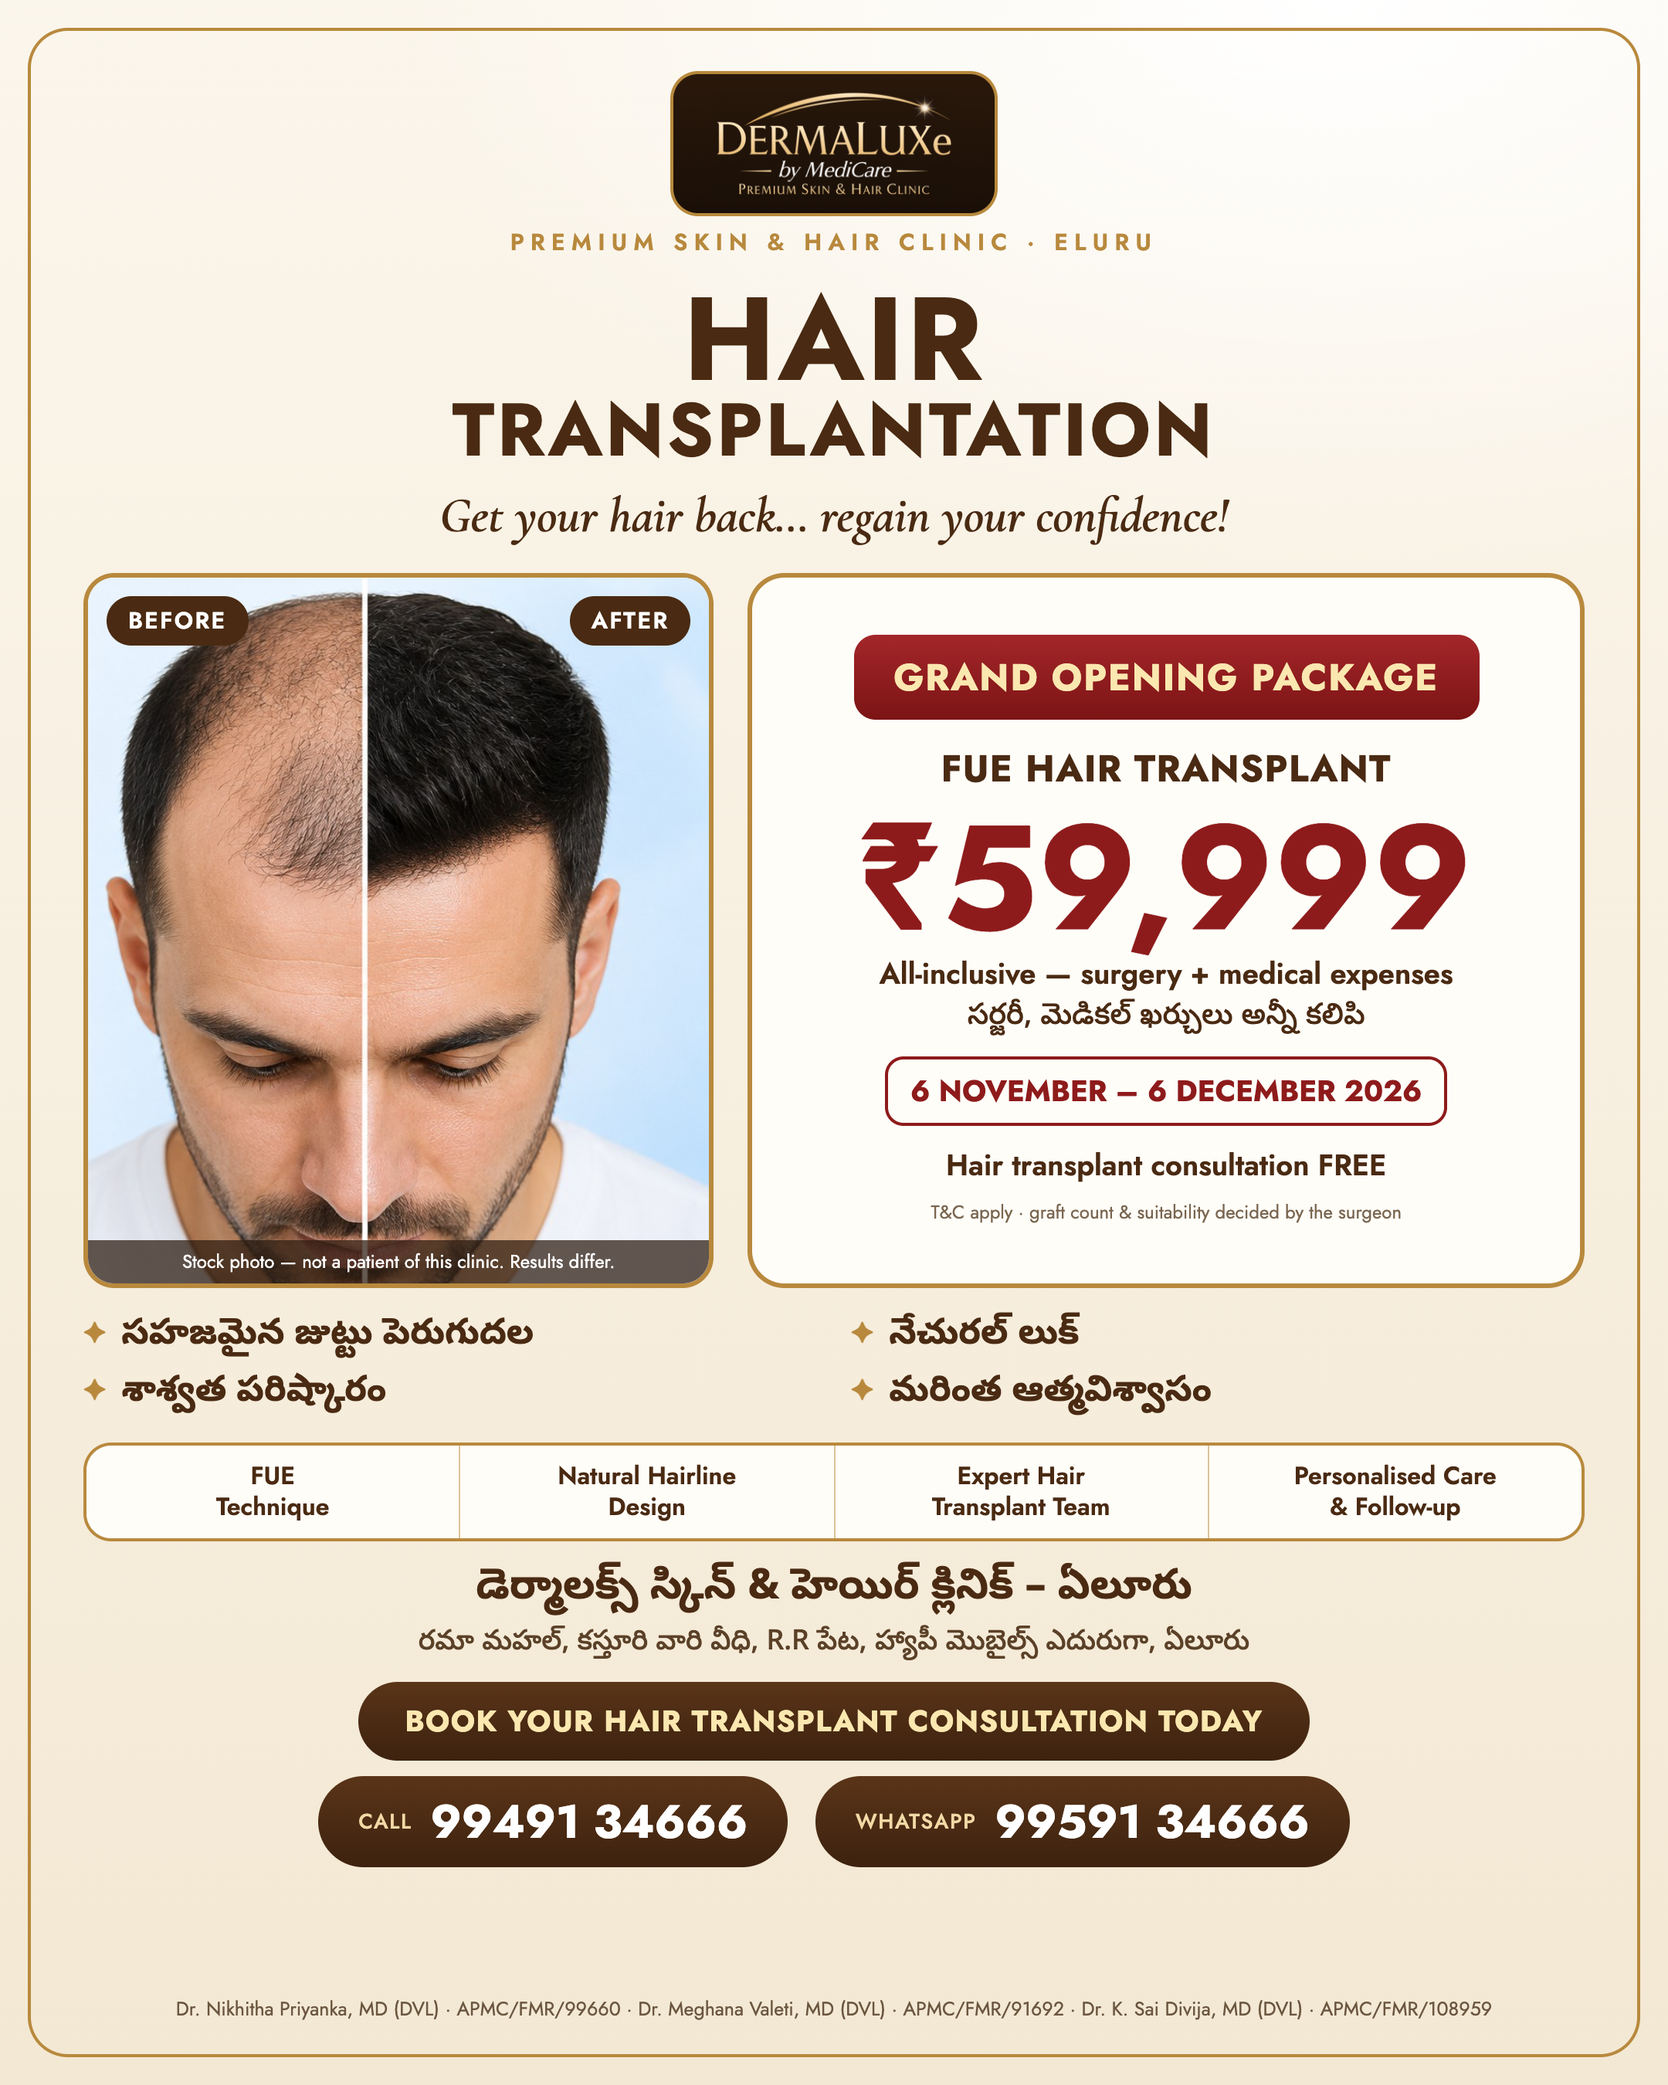
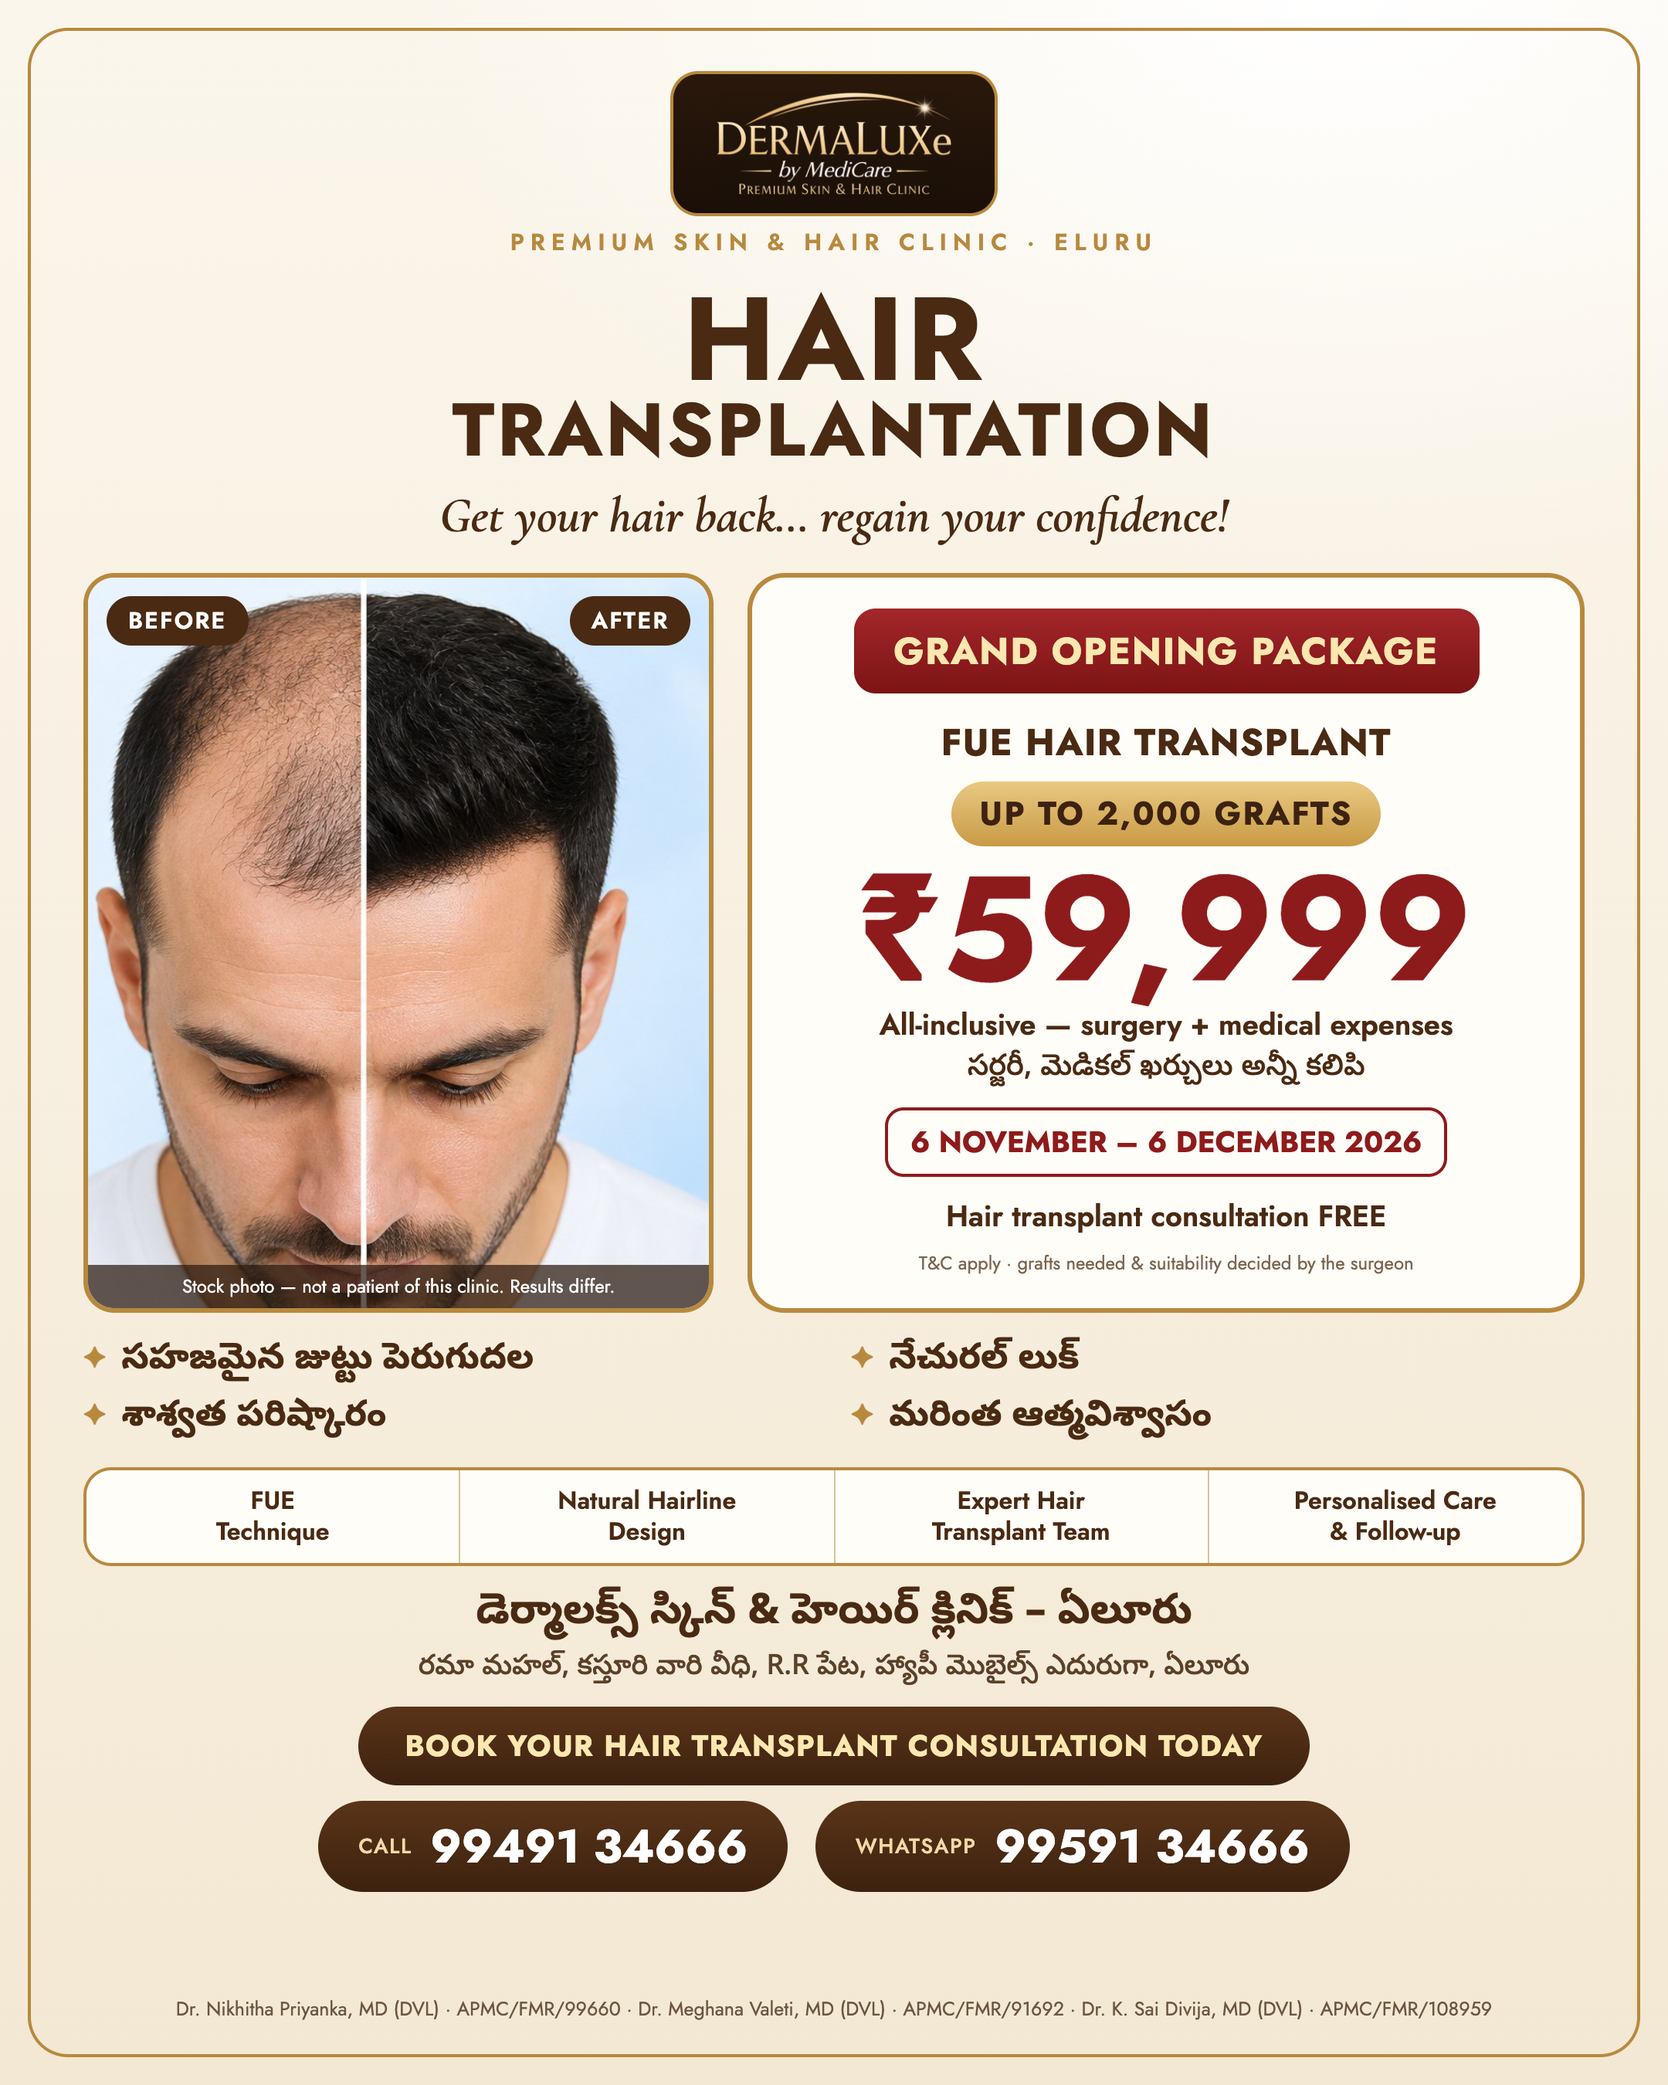
The hair transplant package covers up to 2,000 grafts
The owner gave the number on 7 Nov. It is on the package page, the three
banners, both posters and in the agent's brief, which says more than 2,000
grafts costs extra and is told before booking, and never to promise that
2,000 will be enough for anyone.

Changed region(s): [[0.031, 0.28, 0.9616, 0.9333]]

diff --git a/hair-transplant-offer.html b/hair-transplant-offer.html
@@ -4,7 +4,7 @@
   <meta charset="UTF-8" />
   <meta name="viewport" content="width=device-width, initial-scale=1.0" />
   <title>Hair Transplant Package ₹59,999 in Eluru | 6 Nov – 6 Dec 2026 | DermaLuxe by Medicare</title>
-  <meta name="description" content="FUE hair transplant in Eluru — all-inclusive package ₹59,999 for procedures booked 6 November to 6 December 2026. DermaLuxe by Medicare, R.R. Peta, Eluru." />
+  <meta name="description" content="FUE hair transplant in Eluru — up to 2,000 grafts, all-inclusive package ₹59,999 for procedures booked 6 November to 6 December 2026. DermaLuxe by Medicare, R.R. Peta, Eluru." />
   <meta name="robots" content="index, follow, max-image-preview:large" />
   <link rel="canonical" href="https://www.dermaluxe.ai/hair-transplant-offer.html" />
   <meta property="og:title" content="Hair Transplant Package ₹59,999 — DermaLuxe Eluru" />
@@ -67,7 +67,7 @@
         <div class="htp-price">
           <div class="lbl">Grand opening package</div>
           <div class="amt">₹59,999</div>
-          <div class="inc">All-inclusive — FUE surgery and medical expenses<br /><span class="te tsub"><span lang="te">సర్జరీ, మెడికల్ ఖర్చులు అన్నీ కలిపి</span></span></div>
+          <div class="inc">Up to <b>2,000 grafts</b> · all-inclusive — FUE surgery and medical expenses<br /><span class="te tsub"><span lang="te">2,000 గ్రాఫ్ట్ల వరకు · సర్జరీ, మెడికల్ ఖర్చులు అన్నీ కలిపి</span></span></div>
           <div class="when">6 November – 6 December 2026 only</div>
           <p class="meta" style="margin-top:.8rem" data-owner="ht-offer-2026-11">Hair transplant consultation is free during these dates. <span class="te"><span lang="te">ఈ తేదీల్లో హెయిర్ ట్రాన్స్ప్లాంట్ కన్సల్టేషన్ ఉచితం</span>.</span></p>
         </div>
@@ -100,7 +100,7 @@
     <ul class="ticklist">
       <li>FUE hair transplant surgery by our hair transplant team, under local anaesthesia</li>
       <li>Medical expenses of the procedure</li>
-      <li>Graft count for the package and your suitability are confirmed by the surgeon at the scalp assessment</li>
+      <li>Up to 2,000 grafts — how many you need, and whether a transplant suits you, are decided by the surgeon at the scalp assessment</li>
       <li>Personalised care and follow-up after the procedure</li>
     </ul>
     <p>Mild soreness and swelling for a few days afterwards is normal. The surgeon explains the plan, the graft count and the aftercare before anything is booked.</p>
@@ -111,7 +111,7 @@
       <span class="te tsub"><span lang="te">రమా మహల్, కస్తూరి వారి వీధి, R.R పేట, హ్యాపీ మొబైల్స్ ఎదురుగా, ఏలూరు</span>.</span></p>
     <p><a href="hair-transplant-eluru.html" style="color:var(--gold-2)">About hair transplant at DermaLuxe →</a> · <a href="hair-transplant-eluru-telugu.html" style="color:var(--gold-2)"><span lang="te">తెలుగులో చదవండి →</span></a></p>
 
-    <p class="htp-terms">T&amp;C apply. The package price is for FUE procedures booked between 6 November and 6 December 2026. The graft count included and whether a transplant suits you are decided by the surgeon after examining your scalp; a larger area may need more grafts at an added cost, told to you before booking. Consultation for other treatments is ₹300.</p>
+    <p class="htp-terms">T&amp;C apply. The package price is for FUE procedures booked between 6 November and 6 December 2026. The package includes up to 2,000 grafts. How many you need, and whether a transplant suits you, are decided by the surgeon after examining your scalp; more than 2,000 grafts is at an added cost, told to you before booking. Consultation for other treatments is ₹300.</p>
   </main>
 
   <footer class="seo-foot">

diff --git a/print/make-ht-offer.js b/print/make-ht-offer.js
@@ -47,6 +47,7 @@ const page = (W, H, tall) => `<!doctype html><html><head><meta charset="utf-8">
   .offer { flex:1 1 0; min-width:0; box-sizing:border-box; border:3px solid var(--gold); border-radius:24px; background:#fffdf8; display:flex; flex-direction:column; align-items:center; justify-content:center; padding:20px 14px; text-align:center; }
   .ribbon { background:linear-gradient(180deg,#a3262a,#7c1414); color:#fbe7b0; font-weight:700; font-size:${tall ? 30 : 24}px; letter-spacing:.04em; padding:10px 26px; border-radius:14px; }
   .pkg { margin-top:14px; font-weight:700; font-size:${tall ? 30 : 24}px; color:var(--brown); letter-spacing:.03em; }
+  .grafts { margin-top:8px; background:linear-gradient(180deg,#e9c983,#c99a45); color:#3d220f; font-weight:700; font-size:${tall ? 26 : 21}px; letter-spacing:.06em; padding:6px 18px; border-radius:100px; }
   .amt { font-family:Jost; font-weight:700; font-size:${tall ? 116 : 96}px; line-height:1; color:var(--maroon); margin-top:6px; }
   .inc { font-size:${tall ? 23 : 19}px; font-weight:600; color:var(--brown); }
   .inc-te { font-family:"Noto Sans Telugu"; font-size:${tall ? 24 : 19}px; color:var(--brown); margin-top:2px; }
@@ -76,13 +77,13 @@ const page = (W, H, tall) => `<!doctype html><html><head><meta charset="utf-8">
     <div class="photo"><img src="${photo}" alt=""><span class="lb l">BEFORE</span><span class="lb r">AFTER</span><div class="note">Stock photo — not a patient of this clinic. Results differ.</div></div>
     <div class="offer">
       <div class="ribbon">GRAND OPENING PACKAGE</div>
-      <div class="pkg">FUE HAIR TRANSPLANT</div>
+      <div class="pkg">FUE HAIR TRANSPLANT</div><div class="grafts">UP TO 2,000 GRAFTS</div>
       <div class="amt">₹59,999</div>
       <div class="inc">All-inclusive — surgery + medical expenses</div>
       <div class="inc-te">సర్జరీ, మెడికల్ ఖర్చులు అన్నీ కలిపి</div>
       <div class="dates">6 NOVEMBER – 6 DECEMBER 2026</div>
       <div class="free" data-owner="ht-offer-2026-11">Hair transplant consultation FREE</div>
-      <div class="tc">T&amp;C apply · graft count &amp; suitability decided by the surgeon</div>
+      <div class="tc">T&amp;C apply · grafts needed &amp; suitability decided by the surgeon</div>
     </div>
   </div>
   <div class="benefits"><div>సహజమైన జుట్టు పెరుగుదల</div><div>నేచురల్ లుక్</div><div>శాశ్వత పరిష్కారం</div><div>మరింత ఆత్మవిశ్వాసం</div></div>

diff --git a/api/_facts.js b/api/_facts.js
@@ -47,9 +47,9 @@ GRAND OPENING (people will ask about the invitation, the video and the posters)
 const HT_ENDS = Date.parse("2026-12-07T00:00:00+05:30");
 const HT_OFFER = `
 HAIR TRANSPLANT PACKAGE — 6 November to 6 December 2026 (owner)
-- FUE hair transplant package: *₹59,999 all-inclusive* — FUE surgery and the medical expenses together. This is the one treatment price you MAY say; say it as exactly that. Valid for procedures booked 6 Nov – 6 Dec 2026.
+- FUE hair transplant package: *₹59,999 all-inclusive, up to 2,000 grafts* — FUE surgery and the medical expenses together. This is the one treatment price you MAY say; say it as exactly that. Valid for procedures booked 6 Nov – 6 Dec 2026.
 - NEVER call the hair transplant or the surgery "free" — not "surgery free", not "free hair transplant". The price is ₹59,999 all-inclusive.
-- The graft count included, and whether a transplant suits the person, are decided by the surgeon after examining the scalp; a bigger area may need more grafts at an added cost, which the surgeon tells them before anything is booked. Never invent a graft number.
+- The package includes UP TO 2,000 grafts (owner, 7 Nov). How many grafts this person needs, and whether a transplant suits them, are decided by the surgeon after examining the scalp; more than 2,000 grafts costs extra, and the surgeon tells them how much before anything is booked. Never promise that 2,000 will be enough for them.
 - Hair transplant consultation is FREE in these dates (other consultations stay ₹300). Say it only when the conversation is about hair transplant. [owner decision, data-owner="ht-offer-2026-11"]
 - Anyone asking about hair transplant, baldness or a receding hairline: mention the package once, in one line, then carry on with the usual booking flow (name → concern → slot). No "hurry", "few slots left" or pressure.
 - Calls for the package: 99491 34666 · WhatsApp: 99591 34666 · details page: www.dermaluxe.ai/hair-transplant-offer.html

diff --git a/hair-transplant-eluru-telugu.html b/hair-transplant-eluru-telugu.html
@@ -54,7 +54,7 @@
       </figure>
     </section>
 
-  <a class="ht-banner" href="hair-transplant-offer.html">✦ <b><span lang="te">హెయిర్ ట్రాన్స్ప్లాంట్ (FUE) — ₹59,999 అన్నీ కలిపి</span></b> · <span lang="te">నవంబర్ 6 – డిసెంబర్ 6, 2026</span> · 99491 34666<span class="go"><span lang="te">వివరాలు</span> →</span></a><script>if (Date.now() > Date.parse("2026-12-06T23:59:59+05:30")) document.querySelectorAll(".ht-banner").forEach(function (b) { b.classList.add("gone"); });</script>
+  <a class="ht-banner" href="hair-transplant-offer.html">✦ <b><span lang="te">హెయిర్ ట్రాన్స్ప్లాంట్ (FUE) — 2,000 గ్రాఫ్ట్ల వరకు, ₹59,999 అన్నీ కలిపి</span></b> · <span lang="te">నవంబర్ 6 – డిసెంబర్ 6, 2026</span> · 99491 34666<span class="go"><span lang="te">వివరాలు</span> →</span></a><script>if (Date.now() > Date.parse("2026-12-06T23:59:59+05:30")) document.querySelectorAll(".ht-banner").forEach(function (b) { b.classList.add("gone"); });</script>
   <div class="seo-strip">✦ ఇప్పుడు ఏలూరులో · సోమ–శని ఉదయం 9 – రాత్రి 9 · హ్యాపీ మొబైల్స్ ఎదురుగా, ఆర్.ఆర్. పేట ✦</div>
 
   <main class="seo-body">

diff --git a/hair-transplant-eluru.html b/hair-transplant-eluru.html
@@ -54,7 +54,7 @@
       </figure>
     </section>
 
-  <a class="ht-banner" href="hair-transplant-offer.html">✦ <b>Hair Transplant (FUE) — ₹59,999 all-inclusive</b> · 6 Nov – 6 Dec 2026 · Call 99491 34666<span class="go">Details →</span></a><script>if (Date.now() > Date.parse("2026-12-06T23:59:59+05:30")) document.querySelectorAll(".ht-banner").forEach(function (b) { b.classList.add("gone"); });</script>
+  <a class="ht-banner" href="hair-transplant-offer.html">✦ <b>Hair Transplant (FUE) — up to 2,000 grafts, ₹59,999 all-inclusive</b> · 6 Nov – 6 Dec 2026 · Call 99491 34666<span class="go">Details →</span></a><script>if (Date.now() > Date.parse("2026-12-06T23:59:59+05:30")) document.querySelectorAll(".ht-banner").forEach(function (b) { b.classList.add("gone"); });</script>
   <div class="seo-strip">✦ Now Open in Eluru · Mon–Sat 9 AM – 9 PM · Opposite Happy Mobiles, R.R. Peta ✦</div>
 
   <main class="seo-body">

diff --git a/index.html b/index.html
@@ -202,7 +202,7 @@
     </div>
   </header>
 
-  <a class="ht-banner" href="hair-transplant-offer.html">✦ <b>Hair Transplant (FUE) — ₹59,999 all-inclusive</b> · 6 Nov – 6 Dec 2026 · Call 99491 34666<span class="go">Details →</span></a><script>if (Date.now() > Date.parse("2026-12-06T23:59:59+05:30")) document.querySelectorAll(".ht-banner").forEach(function (b) { b.classList.add("gone"); });</script>
+  <a class="ht-banner" href="hair-transplant-offer.html">✦ <b>Hair Transplant (FUE) — up to 2,000 grafts, ₹59,999 all-inclusive</b> · 6 Nov – 6 Dec 2026 · Call 99491 34666<span class="go">Details →</span></a><script>if (Date.now() > Date.parse("2026-12-06T23:59:59+05:30")) document.querySelectorAll(".ht-banner").forEach(function (b) { b.classList.add("gone"); });</script>
   <main>
     <!-- HERO -->
     <section class="hero" id="home">

diff --git a/tools/tests/t-channels.js b/tools/tests/t-channels.js
@@ -78,7 +78,7 @@ const hook = { token: "hook" };
   Date.now = () => Date.parse("2026-12-07T00:30:00+05:30");
   const htOff = facts.clinicFacts("WhatsApp", "");
   Date.now = realNow;
-  is([/₹59,999 all-inclusive/.test(htOn), /NEVER call the hair transplant or the surgery "free"/.test(htOn), /HAIR TRANSPLANT PACKAGE/.test(htOff)], [true, true, false],
+  is([/₹59,999 all-inclusive, up to 2,000 grafts/.test(htOn), /NEVER call the hair transplant or the surgery "free"/.test(htOn), /HAIR TRANSPLANT PACKAGE/.test(htOff)], [true, true, false],
     "the hair transplant package is known until 6 December, never as 'free', and gone the day after");
   const hi = "Namaste andi, mee concern cheppandi.";
   is([facts.withAiLine(hi, true).endsWith(facts.AI_LINE), facts.withAiLine(hi, false), facts.withAiLine("Nenu clinic AI assistant ni andi.", true)],
